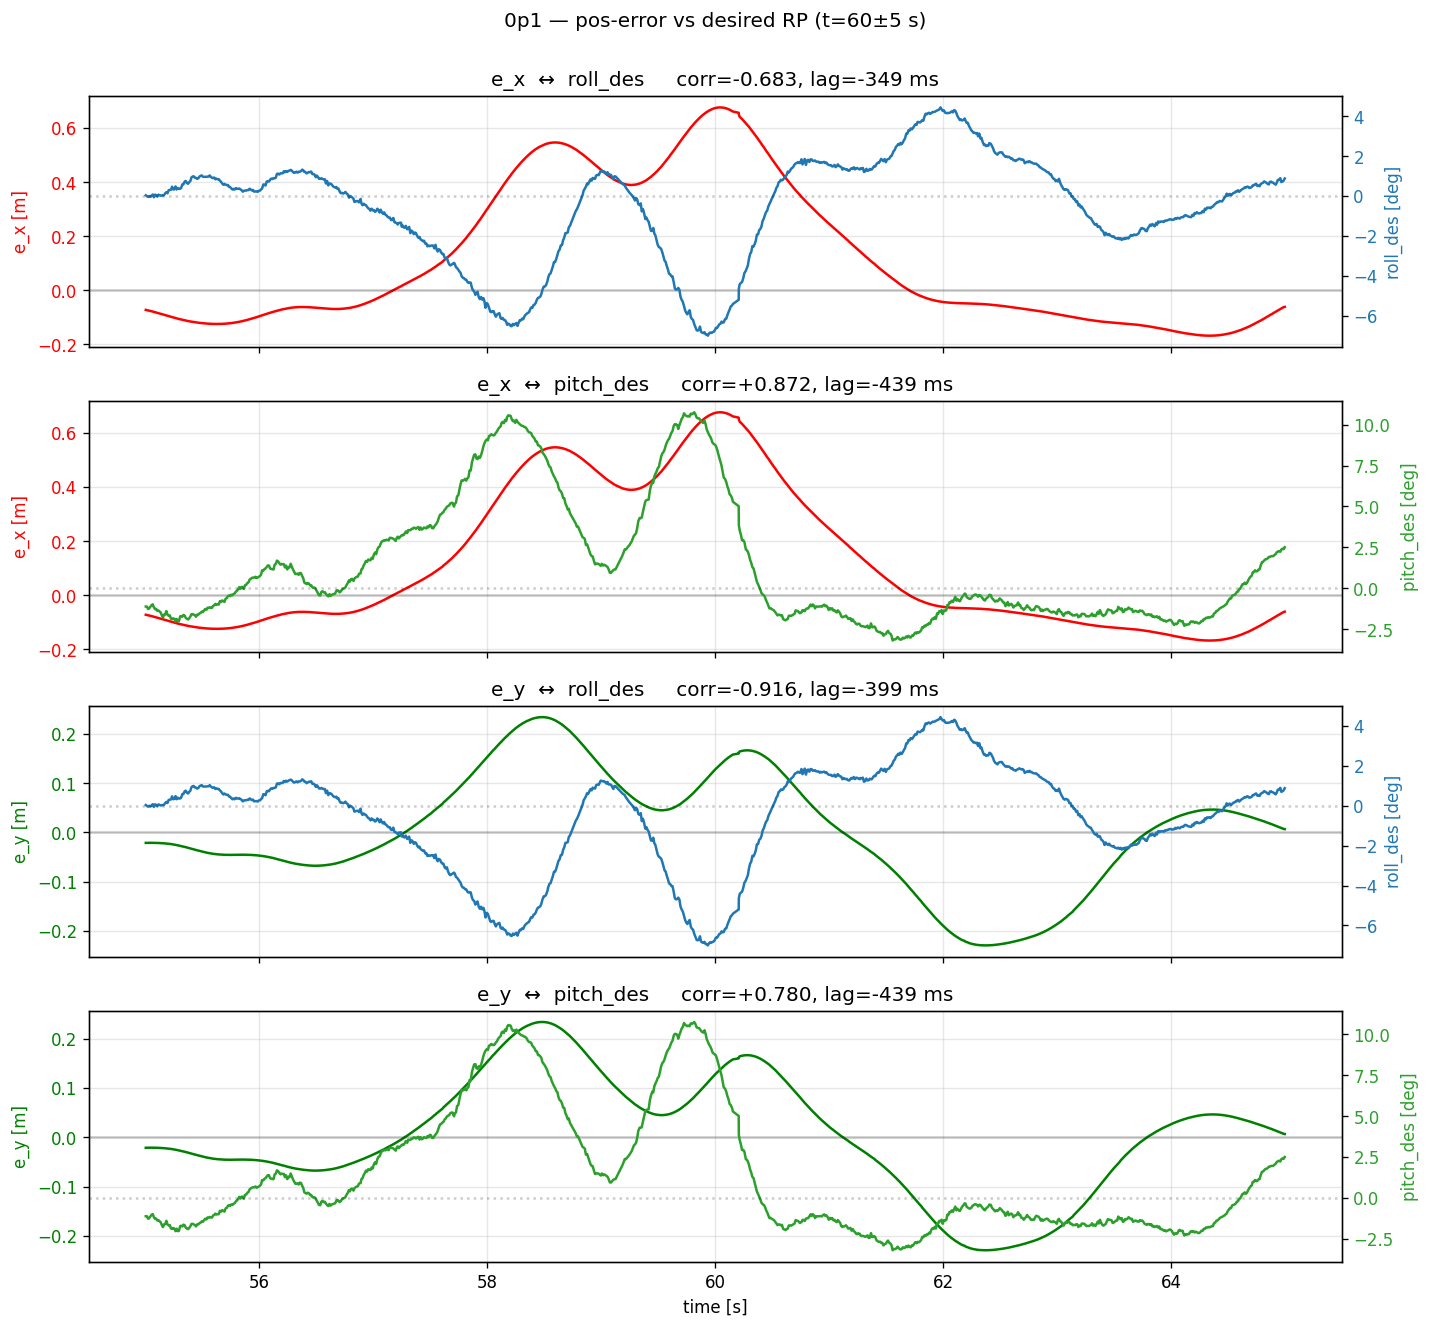
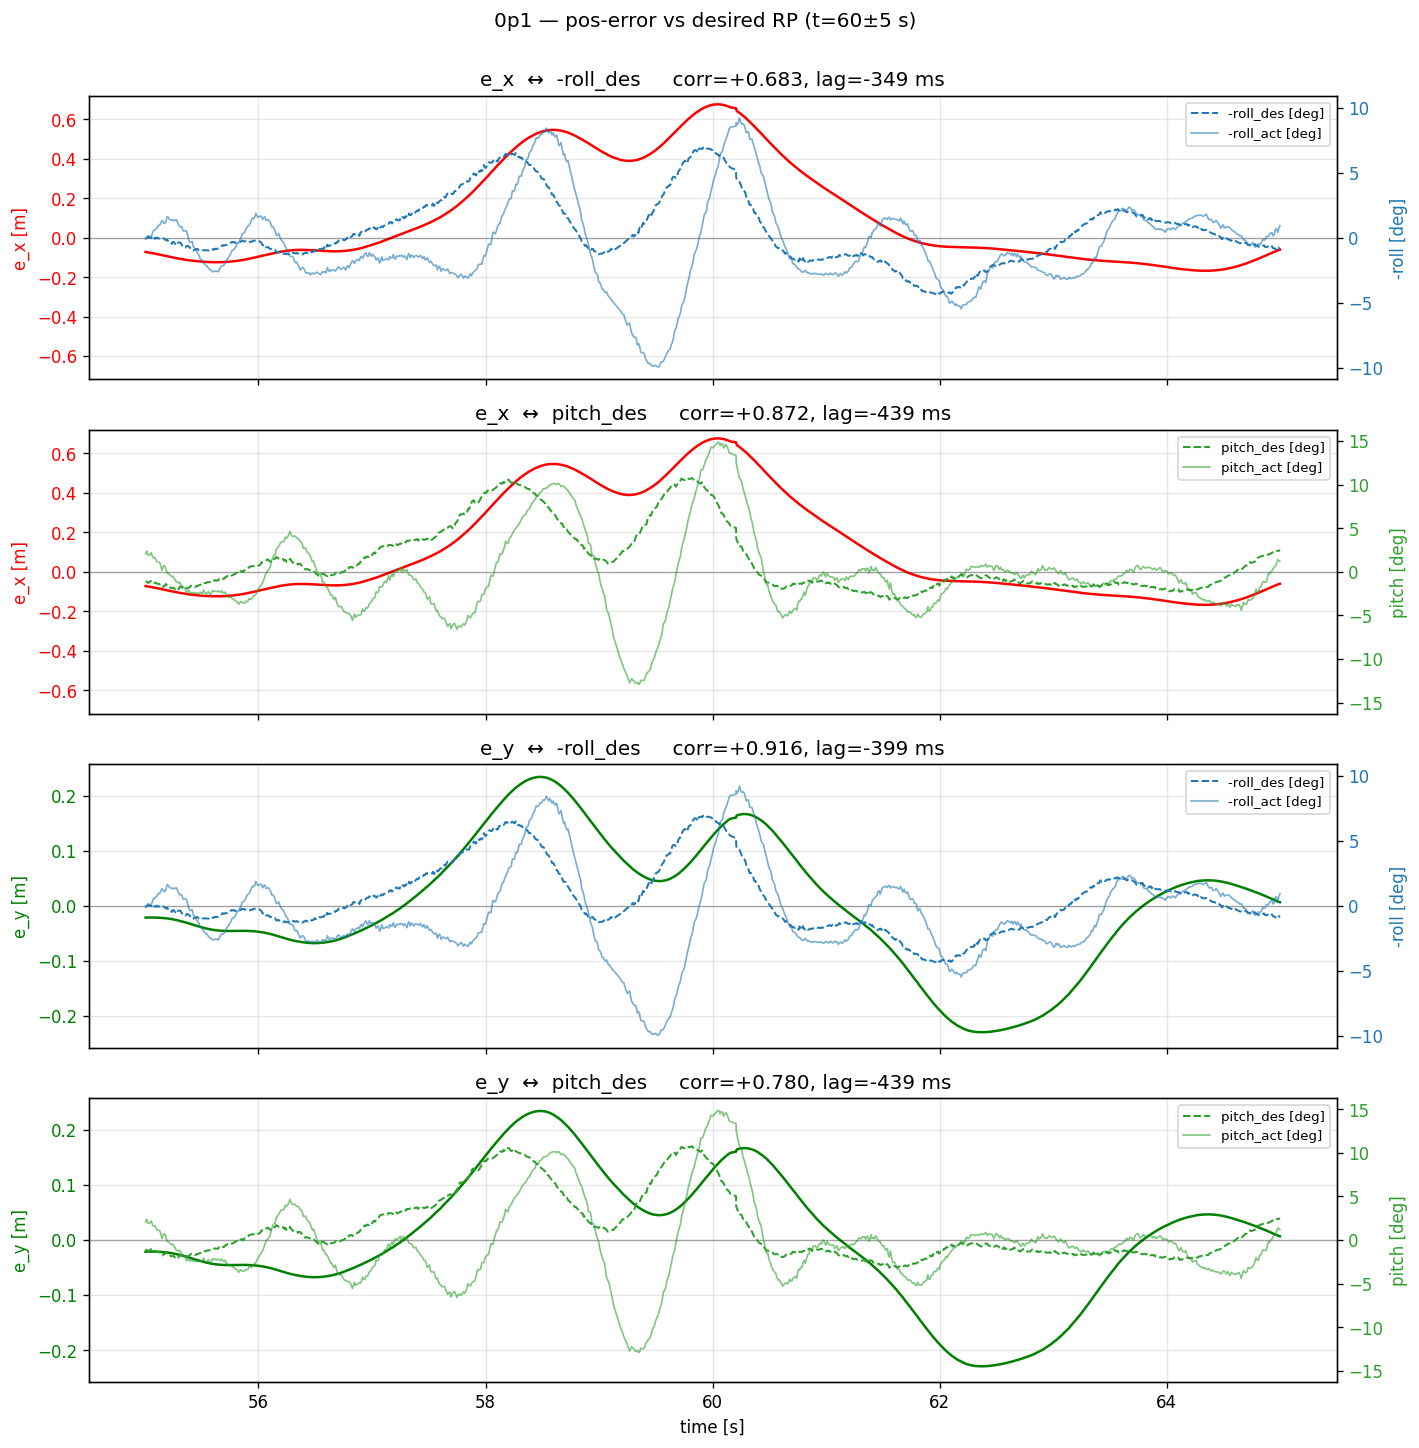
_ep_vs_des_rp.py: zero-aligned twin axes; overlay actual RP, negate roll
- Both y-axes now use symmetric limits so the two zero lines coincide.
- Roll plotted as -roll_des / -roll_act so the e_y↔roll pairing reads
  positively (visually intuitive on twin axes).
- Actual roll/pitch overlaid alongside desired on each panel.

diff --git a/bag_folder/_ep_vs_des_rp.py b/bag_folder/_ep_vs_des_rp.py
@@ -138,6 +138,14 @@ rp_des = np.array([force_to_des_rp(fx_w[i], fy_w[i], f_col[i], psi_c[i]) for i i
 roll_des = np.rad2deg(rp_des[:, 0])
 pitch_des = np.rad2deg(rp_des[:, 1])
 
+# Actual roll/pitch (deg) for overlay
+roll_act = np.rad2deg(rp_act[:, 0])
+pitch_act = np.rad2deg(rp_act[:, 1])
+
+# Negate roll so all four pairs become positively correlated for easier reading
+neg_roll_des = -roll_des
+neg_roll_act = -roll_act
+
 # Cross-correlations (sign-aware): max |corr| and lag
 e_x_c = np.interp(t_c, t_o, e_x)
 e_y_c = np.interp(t_c, t_o, e_y)
@@ -161,30 +169,45 @@ def xcorr_lag(a, b, dt, max_lag_s=1.0):
 
 dt = np.median(np.diff(t_c)) if len(t_c) > 1 else 0.01
 print(f'Window: {t_lo:.1f} → {t_hi:.1f} s')
-print(f'Cross-correlation (b lags a if positive lag):')
+# Actual roll/pitch on /nmpc/control timeline (interp from odom)
+neg_roll_act_c  = np.interp(t_c, t_o, neg_roll_act)
+pitch_act_c     = np.interp(t_c, t_o, pitch_act)
+
+print(f'Cross-correlation (b lags a if positive lag) — roll negated:')
 for an, av in [('e_x', e_x_c), ('e_y', e_y_c)]:
-    for bn, bv in [('roll_des', roll_des), ('pitch_des', pitch_des)]:
+    for bn, bv in [('-roll_des', neg_roll_des), ('pitch_des', pitch_des)]:
         r, lag = xcorr_lag(av, bv, dt)
         print(f'  {an} → {bn}:  corr={r:+.3f}  lag={lag:+.0f} ms')
 
-fig, axes = plt.subplots(4, 1, figsize=(12, 11), sharex=True)
+
+def align_zero(ax1, ax2):
+    """Symmetric ylim around 0 on both axes so the two zero lines coincide."""
+    A = max(abs(ax1.get_ylim()[0]), abs(ax1.get_ylim()[1]))
+    B = max(abs(ax2.get_ylim()[0]), abs(ax2.get_ylim()[1]))
+    ax1.set_ylim(-A, A)
+    ax2.set_ylim(-B, B)
+
+
+fig, axes = plt.subplots(4, 1, figsize=(12, 12), sharex=True)
 pairs = [
-    ('e_x', e_x_c, 'roll_des',  roll_des,  'r', 'C0'),
-    ('e_x', e_x_c, 'pitch_des', pitch_des, 'r', 'C2'),
-    ('e_y', e_y_c, 'roll_des',  roll_des,  'g', 'C0'),
-    ('e_y', e_y_c, 'pitch_des', pitch_des, 'g', 'C2'),
+    ('e_x', e_x_c, '-roll',  neg_roll_des, neg_roll_act_c, 'r', 'C0'),
+    ('e_x', e_x_c, 'pitch',  pitch_des,    pitch_act_c,    'r', 'C2'),
+    ('e_y', e_y_c, '-roll',  neg_roll_des, neg_roll_act_c, 'g', 'C0'),
+    ('e_y', e_y_c, 'pitch',  pitch_des,    pitch_act_c,    'g', 'C2'),
 ]
-for ax, (an, av, bn, bv, ac, bc) in zip(axes, pairs):
-    r, lag = xcorr_lag(av, bv, dt)
-    ax.plot(t_c, av, color=ac, label=f'{an} [m]')
+for ax, (an, av, bn, b_des, b_act, ac, bc) in zip(axes, pairs):
+    r, lag = xcorr_lag(av, b_des, dt)
+    ax.plot(t_c, av, color=ac, label=f'{an} [m]', lw=1.5)
     ax.set_ylabel(f'{an} [m]', color=ac); ax.tick_params(axis='y', labelcolor=ac)
-    ax.axhline(0, color='k', alpha=0.2)
+    ax.axhline(0, color='k', alpha=0.3, lw=0.8)
     ax.grid(alpha=0.3)
     ax2 = ax.twinx()
-    ax2.plot(t_c, bv, color=bc, label=f'{bn} [deg]')
+    ax2.plot(t_c, b_des, color=bc, ls='--', label=f'{bn}_des [deg]', lw=1.2)
+    ax2.plot(t_c, b_act, color=bc, ls='-',  alpha=0.6, label=f'{bn}_act [deg]', lw=1.0)
     ax2.set_ylabel(f'{bn} [deg]', color=bc); ax2.tick_params(axis='y', labelcolor=bc)
-    ax2.axhline(0, color='k', alpha=0.2, ls=':')
-    ax.set_title(f'{an}  ↔  {bn}     corr={r:+.3f}, lag={lag:+.0f} ms')
+    align_zero(ax, ax2)
+    ax2.legend(loc='upper right', fontsize=8)
+    ax.set_title(f'{an}  ↔  {bn}_des     corr={r:+.3f}, lag={lag:+.0f} ms')
 axes[-1].set_xlabel('time [s]')
 fig.suptitle(f'{TAG} — pos-error vs desired RP (t={T_CENTER:.0f}±{WIN/2:.0f} s)', y=1.00)
 plt.tight_layout()